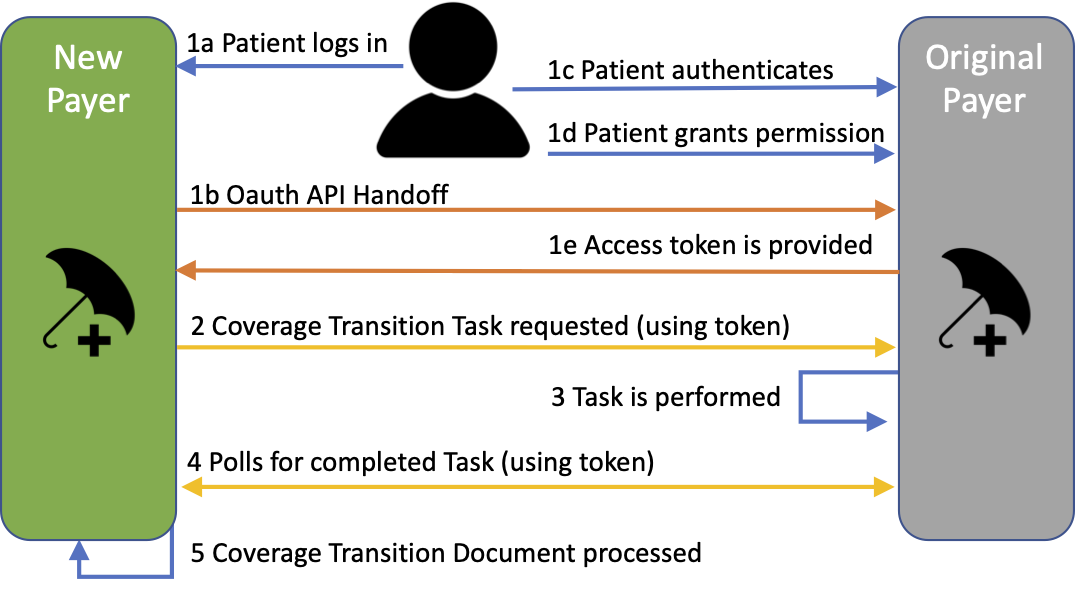
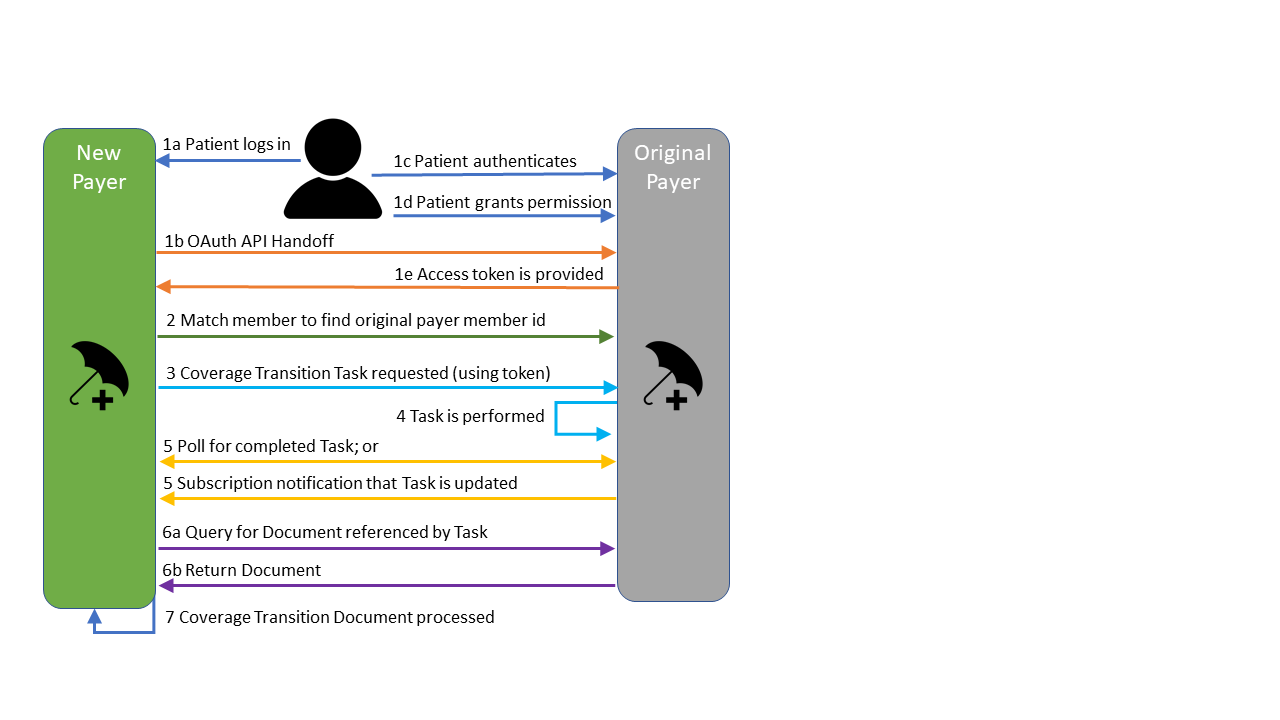
https://jira.hl7.org/browse/FHIR-24811 - Updated workflow diagram

diff --git a/input/pagecontent/spec.md b/input/pagecontent/spec.md
@@ -46,17 +46,19 @@ NOTE: Work to standardize how payer identification will be managed, as well as h
 This implementation guide inherits all of the requirements and guidance defined in the [HRex Security and Privacy page]({{site.data.fhir.ver.hrex}}/security.html).  Conformant systems must familiarize themselves with and abide by the expectations established there for all functions enabled by this implementation guide.
 
 #### Workflow
-1. The new payer executes a [Member Match]({{site.data.fhir.ver.hrex}}/OperationDefinition-member-match.html) operation using the member's old insurance information and demographics to determine the patient identifier on the original payer's system.
+1. Optional: The member uses an interface/portal or SMART app within the new payer's system to authenticate to the original payer's system and authorize the prior payer to allow the new payer to access the member's clinical and treatment data.  The original payer's system provides an OAuth 2.0 token to the new plan.
 
-2. Optional: The member uses an interface/portal or SMART app within the new payer's system to authenticate to the original payer's system and authorize the prior payer to allow the new payer to access the member's clinical and treatment data.  The original payer's system provides an OAuth 2.0 token to the new plan.
+2. The new payer executes a [Member Match]({{site.data.fhir.ver.hrex}}/OperationDefinition-member-match.html) operation using the member's old insurance information and demographics to determine the patient identifier on the original payer's system.
 
-3. The new payer's system (possibly using the token provided in #2) requests a [Coverage Transition Document](#coverage-transition-document-structure) from the prior plan by POSTing a [Task](StructureDefinition-pcde-task-request.html) to their system.  Optionally, the new payer creates a [Subscription](#subscription) on the old payers system, requesting notifications about updates to the newly created Task.
+3. The new payer's system (possibly using the token provided in #1) requests a [Coverage Transition Document](#coverage-transition-document-structure) from the prior plan by POSTing a [Task](StructureDefinition-pcde-task-request.html) to their system.  Optionally, the new payer creates a [Subscription](#subscription) on the old payers system, requesting notifications about updates to the newly created Task.
 
 4. The source (original) payer either locates an existing document (previously prepared) or assembles the information needed and creates the requested document.  Updates are made to the `Task.status` element and, optionally, human-readable status information within `Task.businessStatus.text` element as the task progresses through different [states](https://www.hl7.org/fhir/task.html#statemachine).  (In PCDE, the Task is limited to the states 'requested', 'in-progress', 'completed' or 'failed'.)  The original payer updates `Task.output` with a reference to the document when `Task.status` is completed.
 
-5. The new payer queries the origninal payer's system for updates to the Task.  This is either done by polling at regular intervals or by responding to a Subscription notification.  When the `Task.status` is completed, the new payer retrieves the [Coverage Transition Document](#coverage-transition-document-structure) pointed to by the `Task.output`.
+5. The new payer queries the origninal payer's system for updates to the Task.  This is either done by polling at regular intervals or by responding to a Subscription notification.  
 
-6. The new payer incorporates the information in the document into their utilization management / utilization review process for review and approval of the ongoing treatments for the new member.
+6. When the `Task.status` is completed, the new payer retrieves the [Coverage Transition Document](#coverage-transition-document-structure) pointed to by the `Task.output`.
+
+7. The new payer incorporates the information in the document into their utilization management / utilization review process for review and approval of the ongoing treatments for the new member.
 
 The following diagram illustrates the workflow that is supported by this implementation guide:
 
